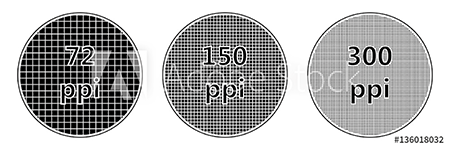
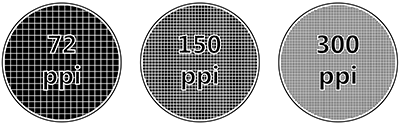
Replaced preview images for originals

diff --git a/templates/base.html b/templates/base.html
@@ -8,9 +8,15 @@
       <meta http-equiv="X-UA-Compatible" content="ie=edge">
       <meta charset="utf-8">
       <meta name="viewport" content="width=device-width, initial-scale=1">
+      <meta name="description" content="POSTFLY, the online place to be for printing your flyers, posters, business cards and much more!"> 
+	    <meta name="keywords" content="printing, offset, cmyk, flyers, posters, business cards, cold foil, press">
+	    <meta name="author" content="Daphne Heimgartner">
+      <meta name="robots" content="index, follow">
     {% endblock %}
 
     {% block extra_meta %}
+      <!-- Favicon -->
+	    <link rel="icon" href="{% static 'img/favicon.png' %}" type="image/png" sizes="32x32">
     {% endblock %}
 
     {% block corecss %}

diff --git a/static/css/base.css b/static/css/base.css
@@ -29,6 +29,10 @@ body, html {
   width: 200px;
 }
 
+.w-235 {
+  width: 235px;
+}
+
 .w-300 {
   width: 300px;
 }
@@ -182,7 +186,7 @@ body, html {
 
 /* ---------------------------- Files ----------------------------- */
 .specs-img {
-  background-image: url('/static/img/home/specs/cmyk.png');
+  background-image: url('/static/img/home/specs/cmyk_check.png');
   background-position: center;
   background-repeat: no-repeat;
   background-size: cover;
@@ -389,6 +393,9 @@ footer a {
   }
   .w-200 {
     width: 100px;
+  }
+  .w-235 {
+    width: 120px;
   }
   .w-450 {
     width: 225px;

diff --git a/home/templates/home/file.html b/home/templates/home/file.html
@@ -24,8 +24,8 @@
       </div>
     </div>
     <div class="d-flex align-items-center mt-3 mt-md-4 mt-lg-5 ml">
-      <img src="{% static 'img/home/file_type/pdf.png' %}" alt="PDF" class="w-200">
-      <img src="{% static 'img/home/file_type/jpg.png' %}" alt="JPG" class="w-200">
+      <img src="{% static 'img/home/file_type/pdf_icon.png' %}" alt="PDF" class="w-200">
+      <img src="{% static 'img/home/file_type/jpg_icon.png' %}" alt="JPG" class="w-235 ml-mr">
     </div>
     <div class="row justify-content-center">
       <div class="col-12 col-xl-10 mt-5">

diff --git a/home/templates/home/faq.html b/home/templates/home/faq.html
@@ -11,7 +11,7 @@
   <div class="container mb-5">
     <div class="row justify-content-center">
       <div class="col-12 mt-5">
-        <img src="{% static 'img/home/faq/faq_1.png' %}" alt="FAQ top image" class="mx-auto d-block apples">
+        <img src="{% static 'img/home/faq/faq_top.png' %}" alt="FAQ top image" class="mx-auto d-block w-450">
       </div>
     </div>
     <div class="row justify-content-center">
